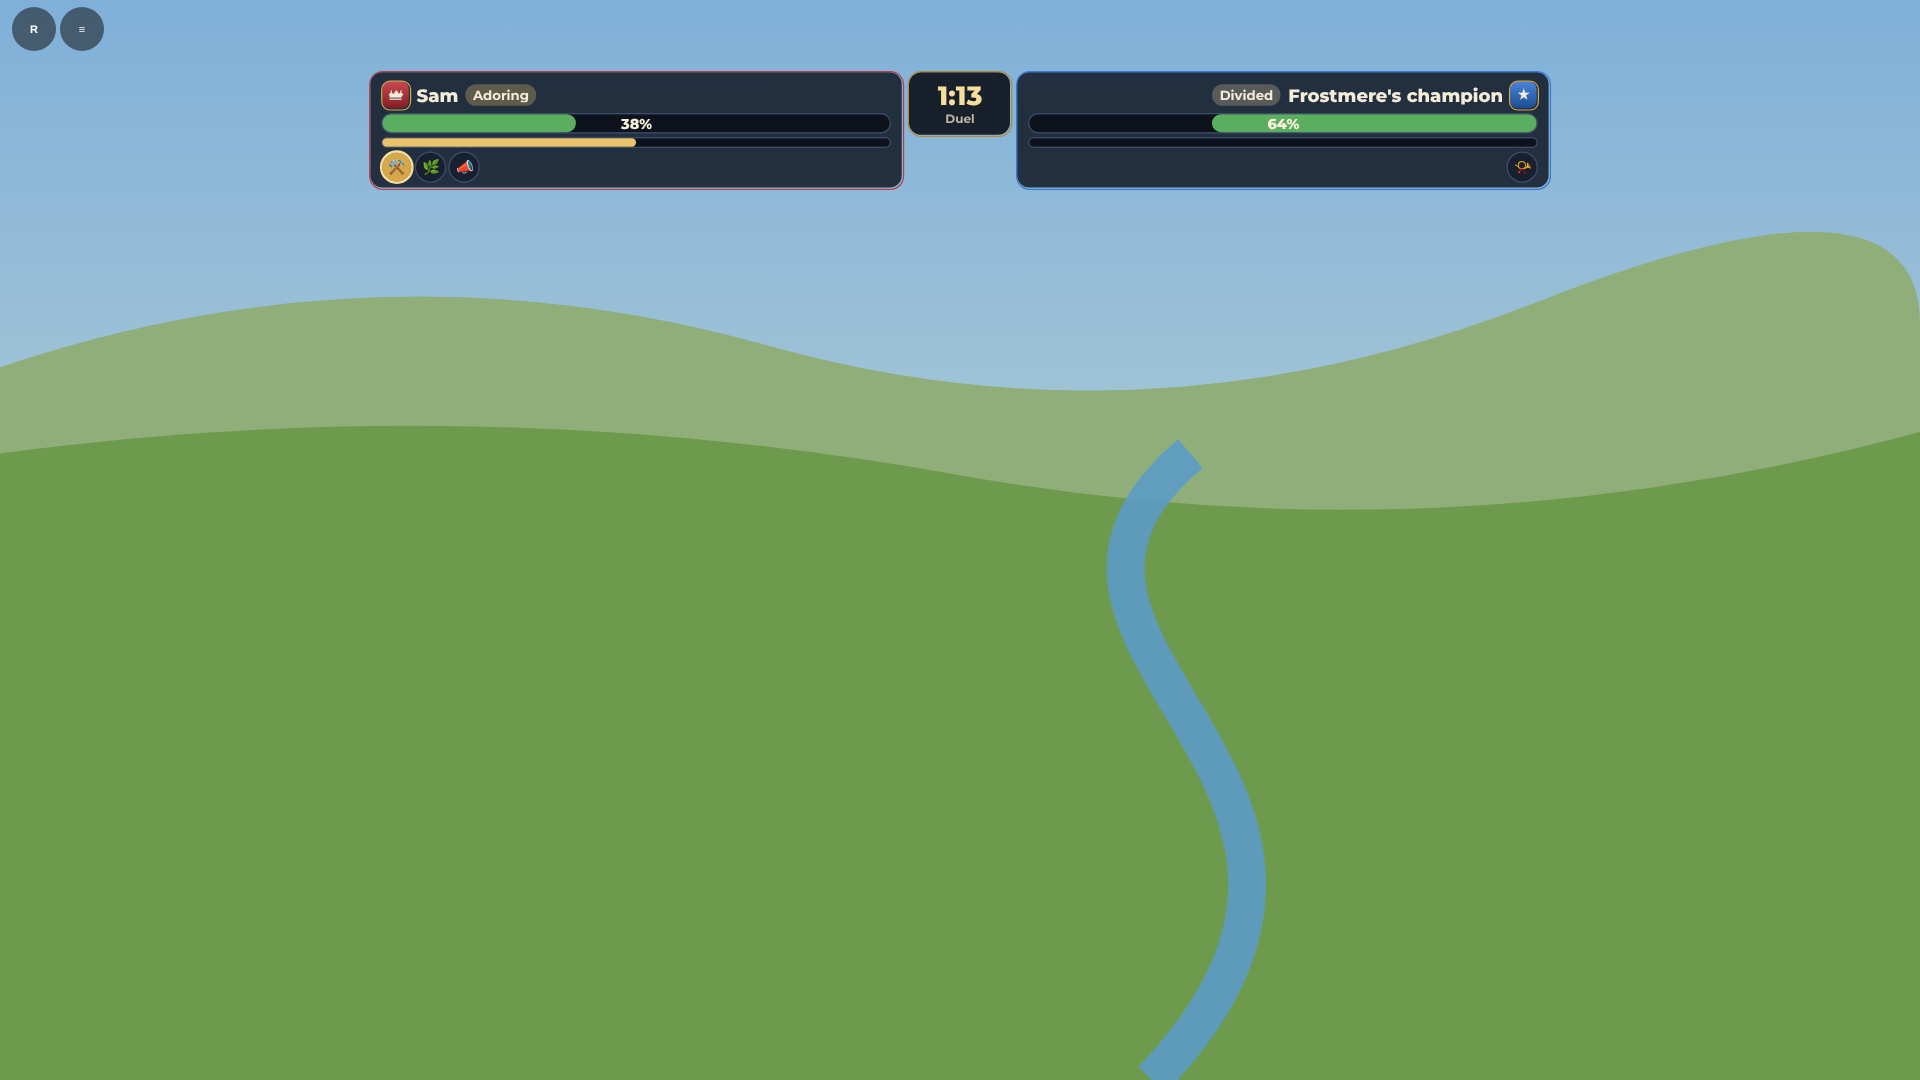
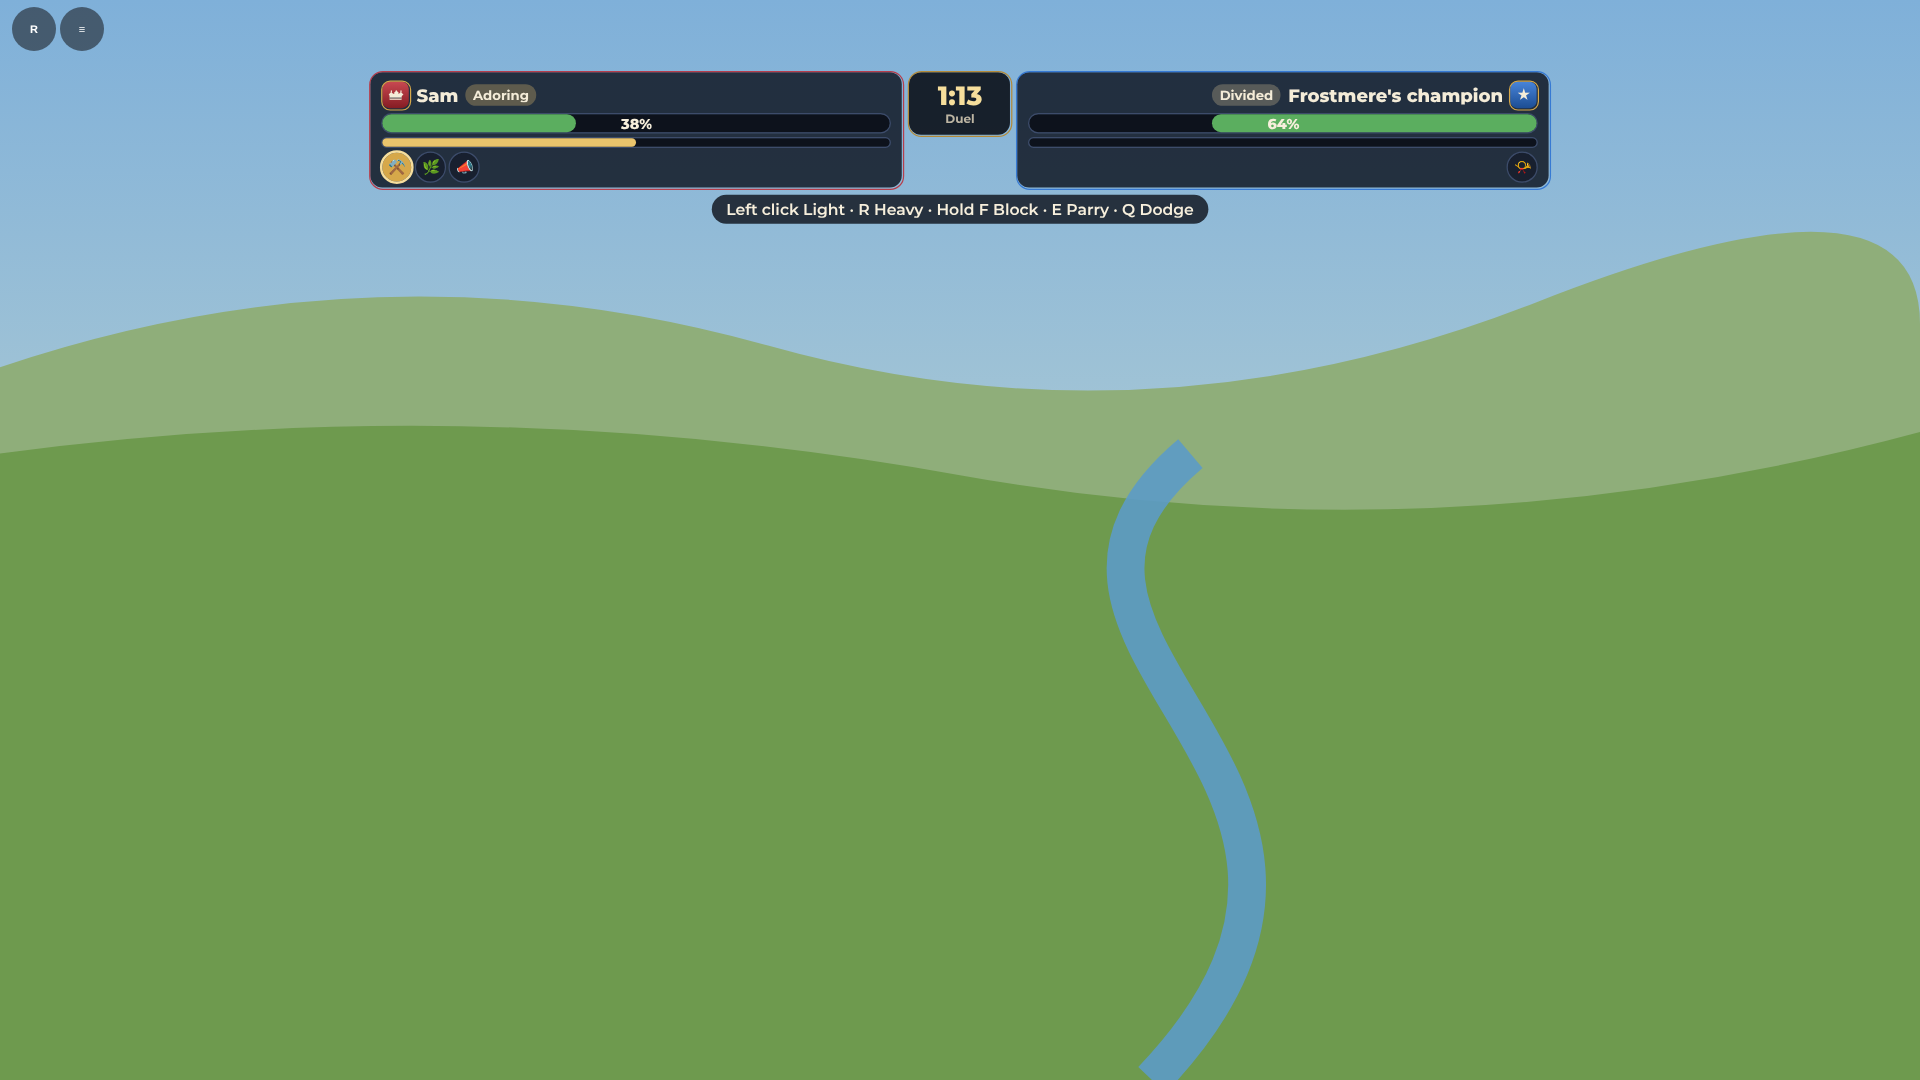
[FORGE-03] FL-0073: duel control hints (FORGE-04, 2026-10-19)
One line under the duel strip for the champion on keyboard or gamepad,
built from InputModeArenaController:controls(): the first 10 s of the duel
and 5 s after the input type changes; never on touch (the buttons carry
labels), never for spectators. Spec + 4 mutation rows (27/27); arena-duel
renders with the line, looked at.

Claude-Session: https://claude.ai/code/session_01KW8Qum3zuwV1ZwRGdGiWGe

Changed region(s): [[0.375, 0.1528, 0.625, 0.2139]]

diff --git a/games/game-001/tests/economy/mutations/FL-0073-arena.py b/games/game-001/tests/economy/mutations/FL-0073-arena.py
@@ -60,6 +60,14 @@ ROWS = [
      "return stage == \"loadout\"", "a spectator gets no picker"),
     ("intro reasons dropped", IM, "if type(r) == \"string\" and r ~= \"\" and #reasons < ArenaIntroModel.REASONS then",
      "if false then", "tier, three reasons"),
+    ("hints forever", HC, "if now >= (self._hintUntil or 0) then", "if false then", "control hints for the champion"),
+    ("no hints after an input change", HC,
+     "self._hintUntil = math.max(self._hintUntil or 0, now + ArenaHudController.HINT_AGAIN_SEC)",
+     "self._hintUntil = self._hintUntil", "control hints for the champion"),
+    ("hints on touch", HM, "if (kind ~= \"keyboard\" and kind ~= \"gamepad\") or type(controls) ~= \"table\" then",
+     "if type(controls) ~= \"table\" then", "control hints for the champion"),
+    ("hints for spectators", HC, "\tif model.mine then\n\t\tmodel.hints", "\tif true then\n\t\tmodel.hints",
+     "control hints for the champion"),
     ("events ignored", HC, "\t\tArenaHudModel.apply(self.track, event, now)", "\t\tlocal _ = event",
      "follows hits, snapshots and perks"),
 ]
